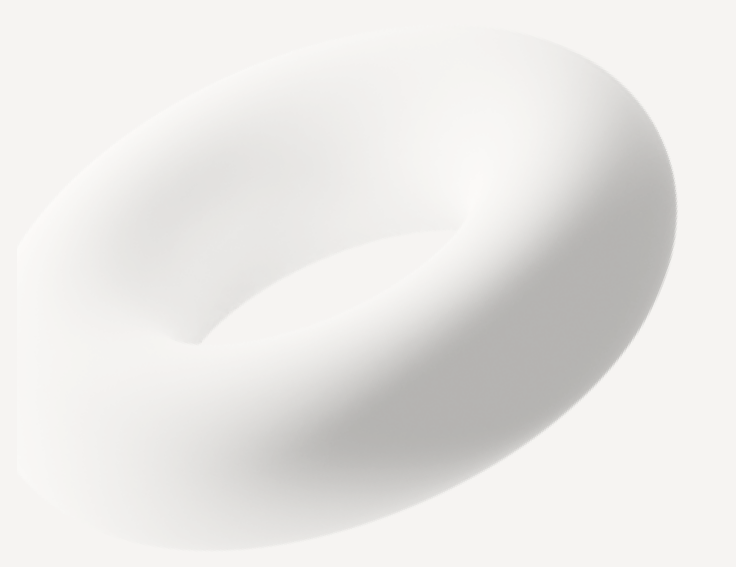
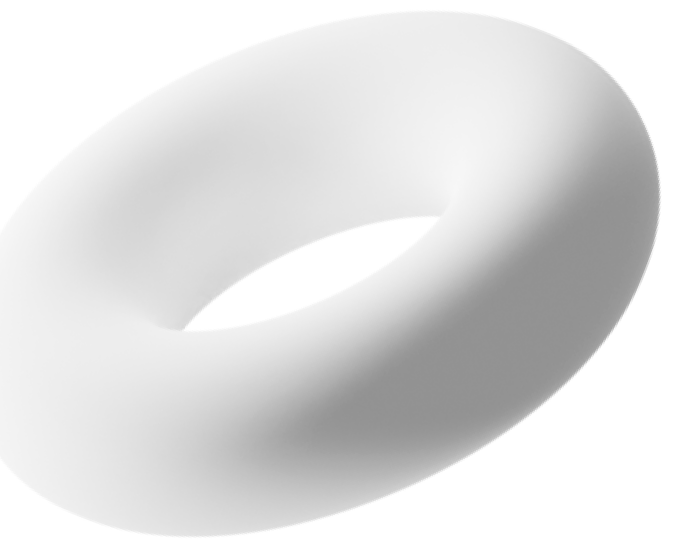
added block "selectall"

diff --git a/index.html b/index.html
@@ -88,8 +88,41 @@
   <div class="main-content">
     <div class="content-wrapper">
       <div class="select-all">
-        <h1>Подберем всё</h1>
-        <div class="select-all__inner"></div>
+        <h2 class="h2">Подберем всё</h2>
+        <div class="select-all__inner">
+          <div class="catalog">
+            <a href="#" class="catalog__item">
+              <span class="citem__title">Шины, диски</span>
+            </a>
+            <a href="#" class="catalog__item">
+              <span class="citem__title">Масла</span>
+            </a>
+            <a href="#" class="catalog__item">
+              <span class="citem__title">Фильтры</span>
+            </a>
+            <a href="#" class="catalog__item">
+              <span class="citem__title">Тормозная система</span>
+            </a>
+            <a href="#" class="catalog__item">
+              <span class="citem__title">Ходовая группа</span>
+            </a>
+            <a href="#" class="catalog__item">
+              <span class="citem__title">Детали двигателя</span>
+            </a>
+            <a href="#" class="catalog__item">
+              <span class="citem__title">Электрика и Свет</span>
+            </a>
+            <a href="#" class="catalog__item">
+              <span class="citem__title citem__title-small">Запчасти для технического обслуживания</span>
+              <img src="icons/arrow.svg" alt="">
+            </a>
+            <a href="#" class="catalog__item">
+              <span class="citem__title citem__title-small">Каталог оригинальных запчастей</span>
+              <img src="icons/arrow.svg" alt="">
+            </a>
+          </div>
+          <div class="ad"></div>
+        </div>
       </div>
 
     </div>

diff --git a/src/styles/common/fonts.scss b/src/styles/common/fonts.scss
@@ -1,5 +1,5 @@
 @font-face {
-    font-family: "Graphik Comp LC Web";
+    font-family: "Graphik Compact LC";
     src: url("../fonts/GraphikCompact-Black-Cy-Web.woff2") format("woff2"),
     url("../fonts/GraphikCompact-Black-Cy-Web.woff") format("woff");
     font-weight: 800;
@@ -7,7 +7,7 @@
 }
 
 @font-face {
-    font-family: "Graphik Comp LC Web";
+    font-family: "Graphik Compact LC";
     src: url("../fonts/GraphikCompact-Bold-Cy-Web.woff2") format("woff2"),
     url("../fonts/GraphikCompact-Bold-Cy-Web.woff") format("woff");
     font-weight: 700;
@@ -15,7 +15,7 @@
 }
 
 @font-face {
-    font-family: "Graphik Comp LC Web";
+    font-family: "Graphik Compact LC";
     src: url("../fonts/GraphikCompact-Semibold-Cy-Web.woff2") format("woff2"),
     url("../fonts/GraphikCompact-Semibold-Cy-Web.woff") format("woff");
     font-weight: 600;
@@ -23,7 +23,7 @@
 }
 
 @font-face {
-    font-family: "Graphik Comp LC Web";
+    font-family: "Graphik Compact LC";
     src: url("../fonts/GraphikCompact-Medium-Cy-Web.woff2") format("woff2"),
     url("../fonts/GraphikCompact-Medium-Cy-Web.woff") format("woff");
     font-weight: 500;
@@ -31,7 +31,7 @@
 }
 
 @font-face {
-    font-family: "Graphik Comp LC Web";
+    font-family: "Graphik Compact LC";
     src: url("../fonts/GraphikCompact-Regular-Cy-Web.woff2") format("woff2"),
     url("../fonts/GraphikCompact-Regular-Cy-Web.woff") format("woff");
     font-weight: 400;

diff --git a/src/styles/selectall.scss b/src/styles/selectall.scss
@@ -1,0 +1,67 @@
+.select-all {
+    height: 500px;
+    position: relative;
+    padding-bottom: 48px;
+}
+
+.select-all::before {
+    content: "";
+    display: block;
+    position: absolute;
+    top: 0;
+    left: 0;
+    width: 100%;
+    height: 100%;
+    //background-image: url("../images/toroid.png");
+    background-repeat: no-repeat;
+    background-position: 75px 0;
+    background-size: contain;
+    z-index: -1;
+}
+
+.select-all__inner {
+    display: flex;
+    flex-direction: row;
+    justify-content: space-between;
+}
+
+.catalog {
+    background: rgba(255, 255, 255, 0.49);
+    border: 1px solid #E0E0E0;
+    backdrop-filter: blur(40px);
+    border-radius: 8px;
+    width: 66%;
+    max-width: 864px;
+    display: flex;
+    flex-direction: row;
+    flex-wrap: wrap;
+}
+
+.catalog__item {
+    flex: 33.3% 0 0;
+    text-decoration: none;
+    color: #000;
+    height: 142px;
+    padding: 24px 16px;
+    box-sizing: border-box;
+}
+
+.citem__title {
+    font-family: "Graphik Compact LC", sans-serif;
+    font-weight: 700;
+    font-size: 24px;
+    line-height: 28px;
+    display: inline-block;
+    width: 50%;
+}
+
+.citem__title-small {
+    font-size: 17px;
+    line-height: 24px;
+}
+
+@media screen and (max-width: 890px) {
+    .catalog {
+        width: 100%;
+    }
+}

diff --git a/src/styles/main.scss b/src/styles/main.scss
@@ -56,8 +56,21 @@ body {
   max-width: 100vw;
 }
 
+.main-content {
+  padding-top: 72px;
+}
+
+.wrapper {
+  position: relative;
+  display: flex;
+  align-items: center;
+  justify-content: space-between;
+  height: 100%;
+}
+
 @import './common/button.scss';
 @import './common/input.scss';
 //@import './common/fonts.scss';
 @import './header.scss';
+@import './selectall.scss';
 

diff --git a/src/styles/header.scss b/src/styles/header.scss
@@ -10,14 +10,6 @@
     line-height: 20px;
 }
 
-.top-line__inner {
-    position: relative;
-    display: flex;
-    align-items: center;
-    justify-content: space-between;
-    height: 100%;
-}
-
 header {
     padding-top: 10px;
     font-size: 14px;
